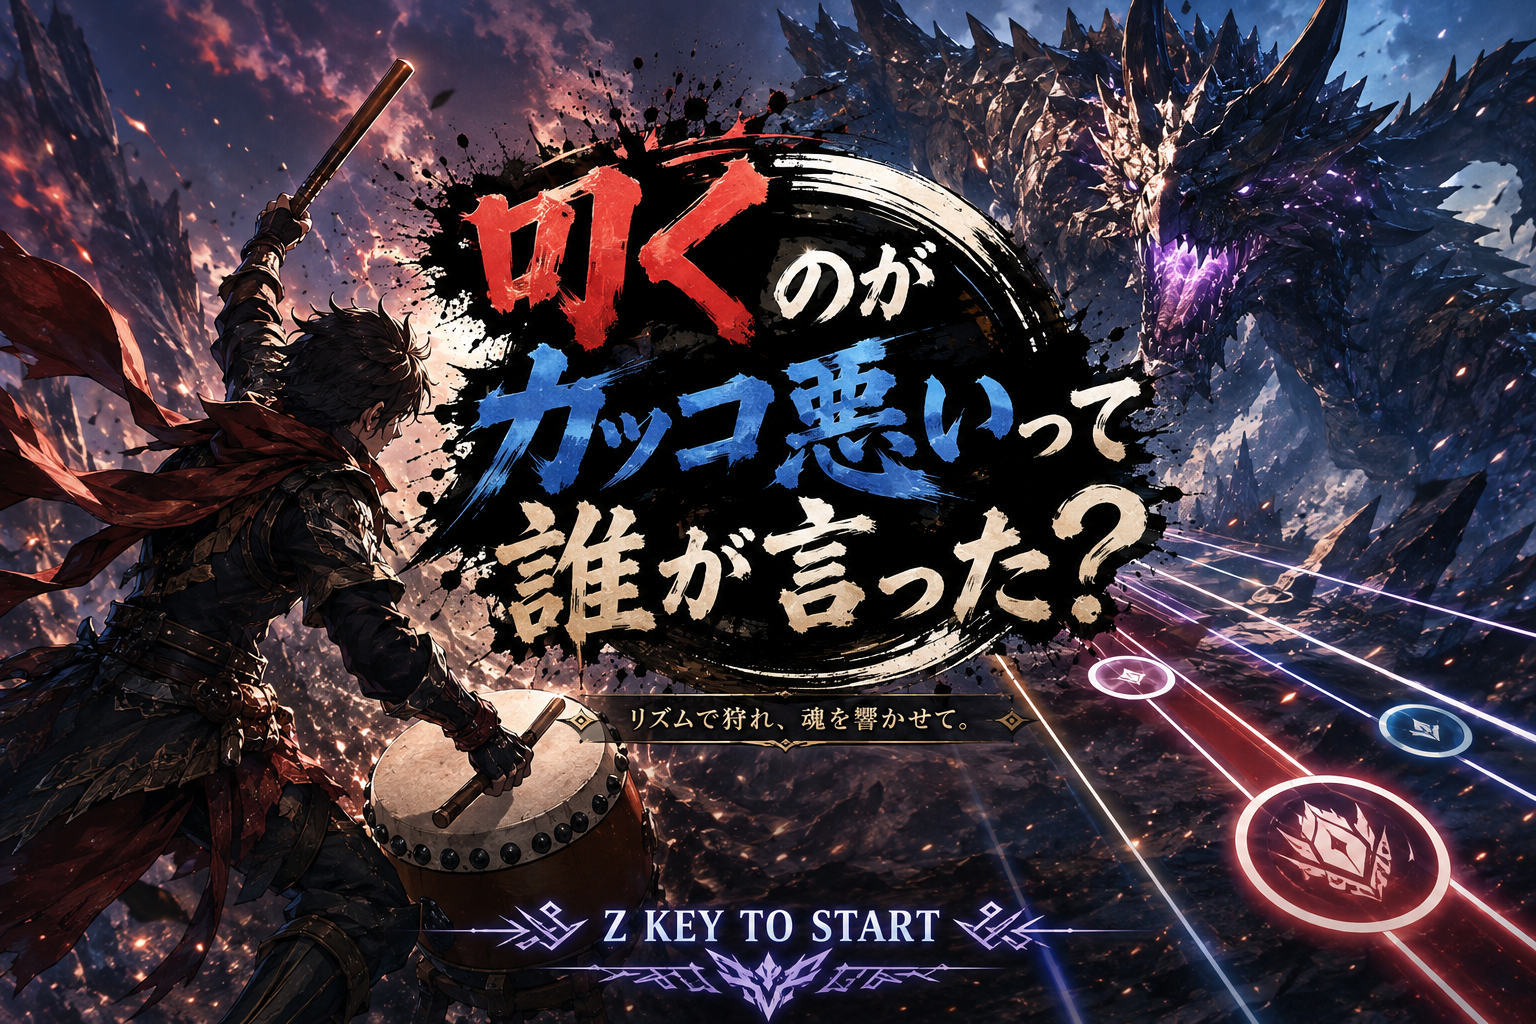
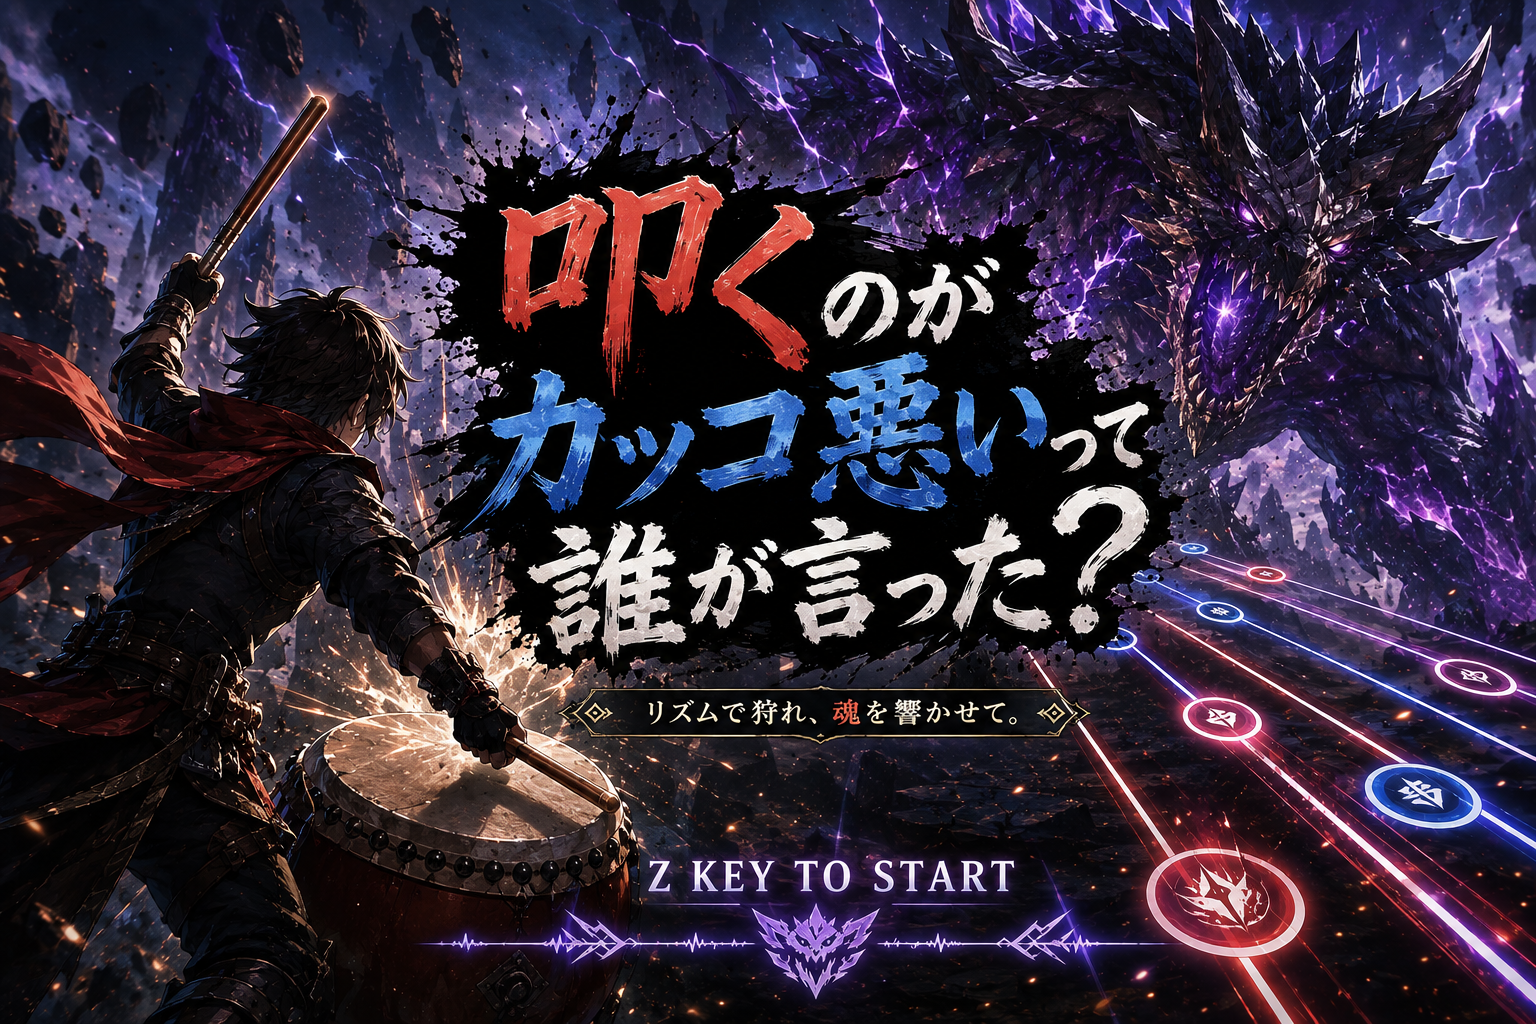
タイトル画像

diff --git a/GameEmployment/Source/Scene/TitleScene.cpp b/GameEmployment/Source/Scene/TitleScene.cpp
@@ -19,12 +19,6 @@ void TitleScene::Update()
 void TitleScene::Draw()
 {
     DrawGraph(0, 0, m_TitleImage, TRUE);
-
-    DrawString(
-        470,
-        620,
-        "PRESS SPACE KEY",
-        GetColor(255, 255, 255));
 }
 
 void TitleScene::End()

diff --git a/GameEmployment/Source/Note/NoteManager.cpp b/GameEmployment/Source/Note/NoteManager.cpp
@@ -16,7 +16,7 @@ void NoteManager::Init()
 {
     m_Notes.clear();
 
-    constexpr float NOTE_Y = 500.0f;
+    constexpr float NOTE_Y = 650.0f;
 
     if (!m_ScoreLoader.Load("Data/Score/test.txt"))
     {

diff --git a/GameEmployment/Source/Main.cpp b/GameEmployment/Source/Main.cpp
@@ -9,7 +9,7 @@ int WINAPI WinMain(
 {
     ChangeWindowMode(TRUE);
 
-    SetGraphMode(1280, 720, 32);
+    SetGraphMode(1600, 900, 32);
 
     if (DxLib_Init() == -1)
     {
